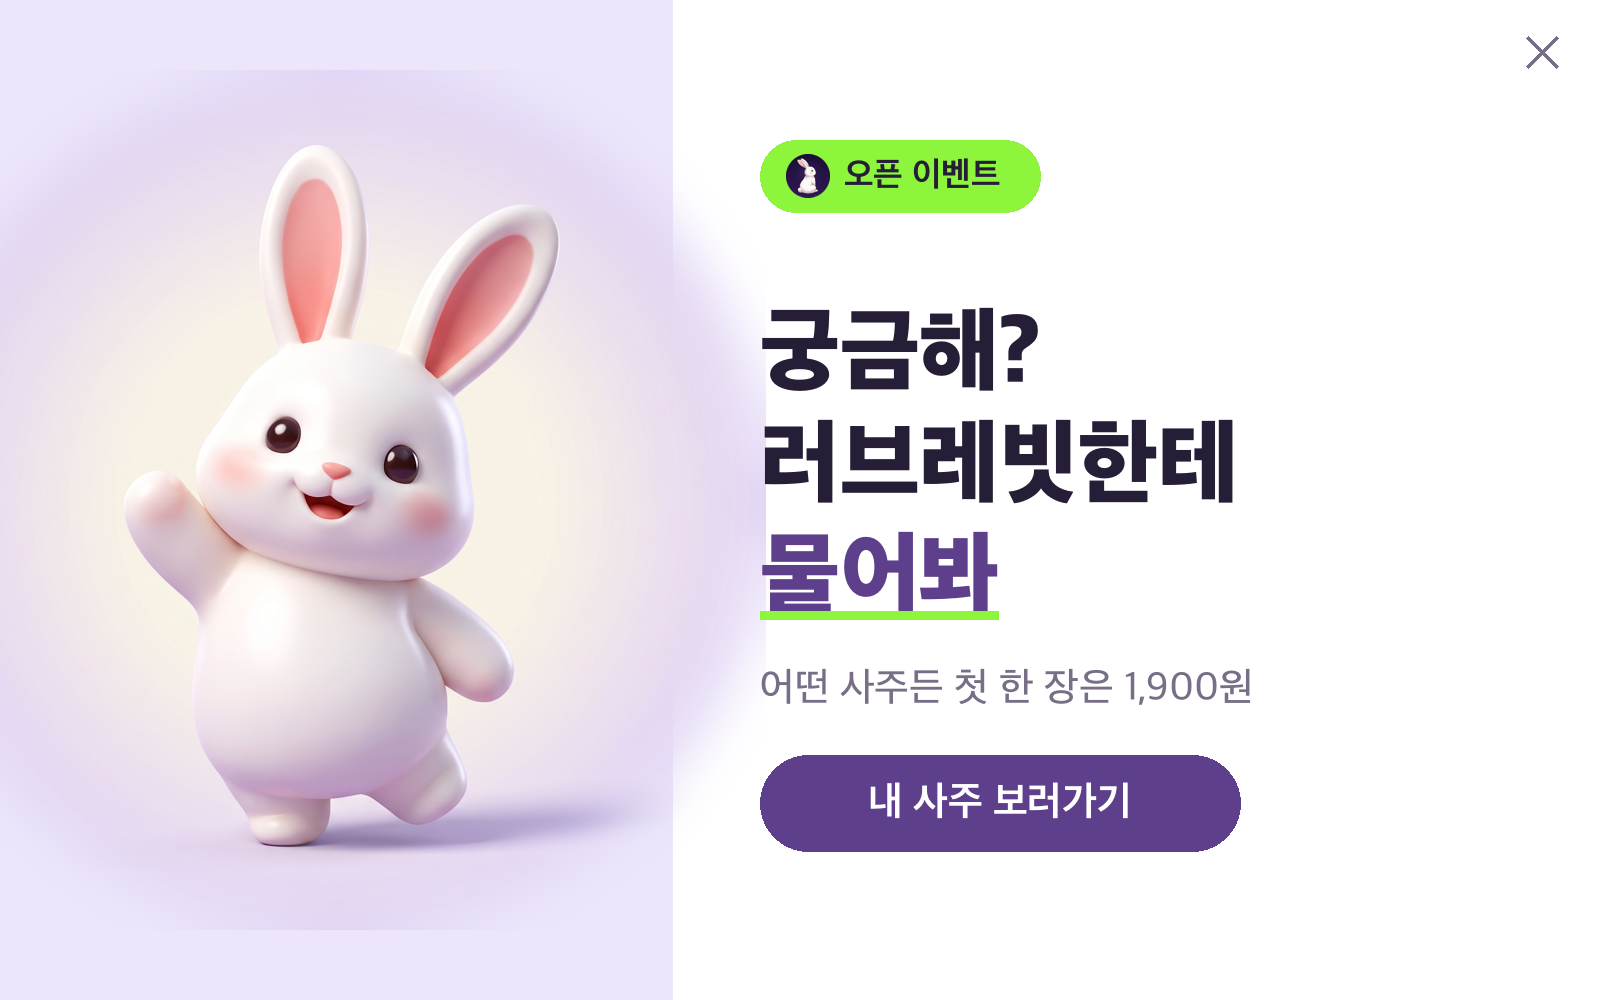
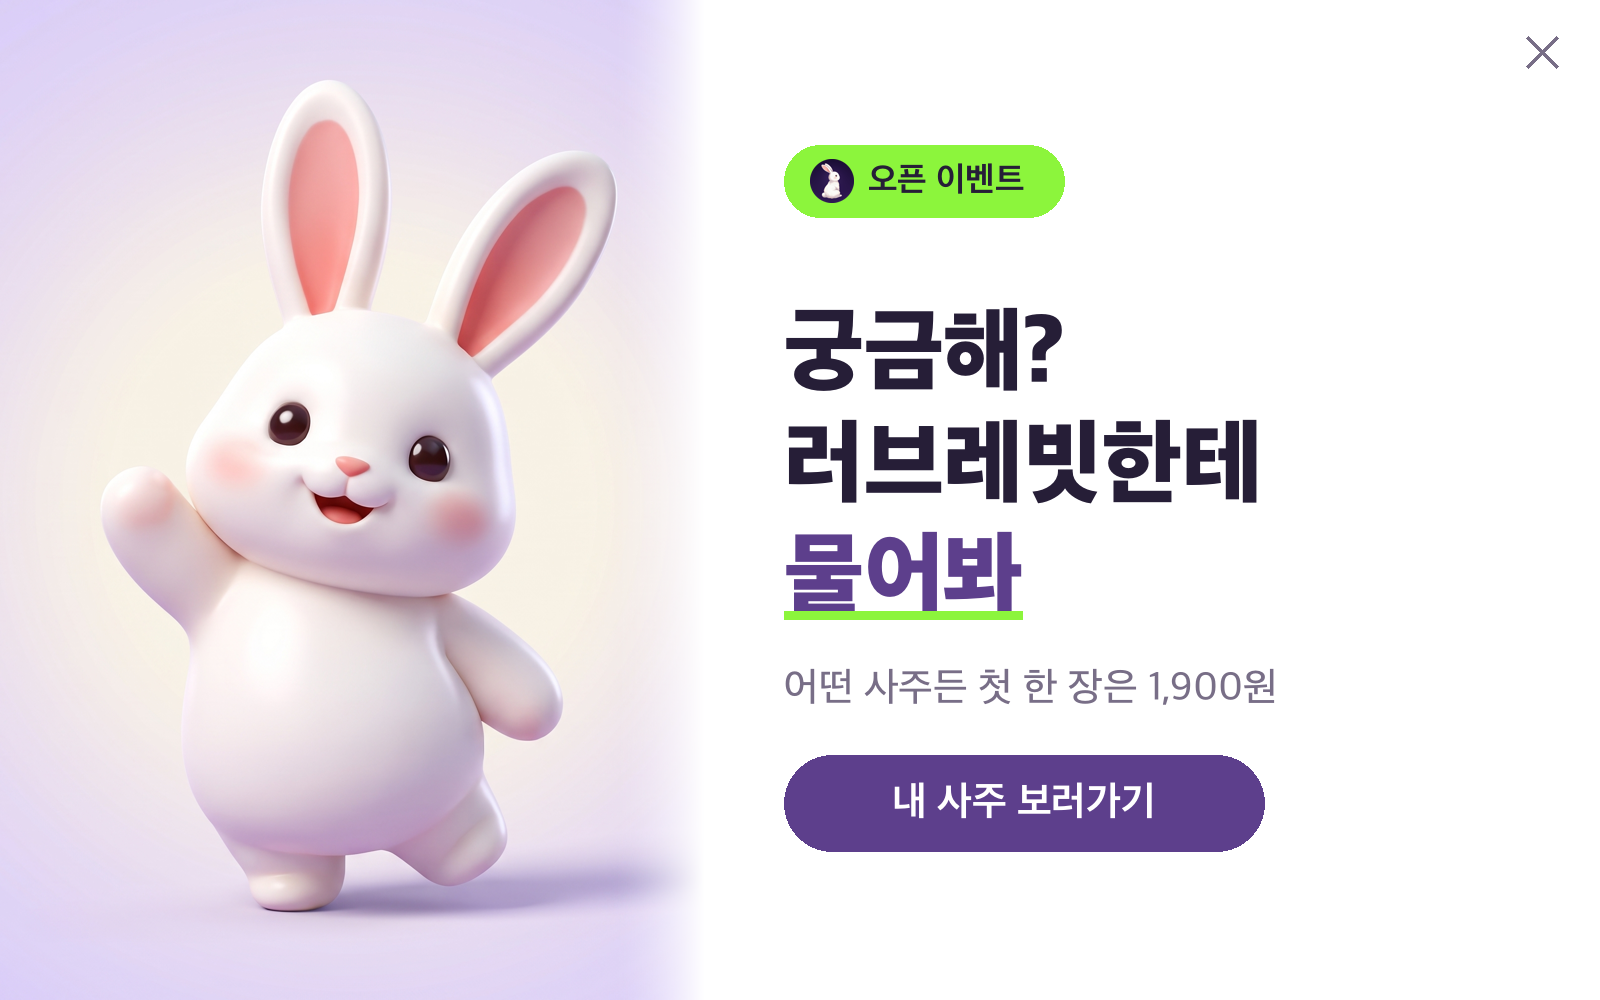
팝업 원형 테두리 제거
원형 마스크로 토끼를 오려 붙여서 배경에 동그란 경계가 보였다.
마스크를 없애고 생성 이미지를 그대로 쓰되,
- 데스크톱: 패널 폭에 맞춰 crop, 우측 가장자리를 흰색으로 페이드
- 모바일: 이미지 하단을 패널 경계에 정확히 맞추고 하단 페이드
- 남는 여백은 생성 이미지의 배경색(215,202,245)으로 채워 이음매 제거

Claude-Session: https://claude.ai/code/session_01BbSSjBDqq5wDqSAhynLt4x

diff --git a/scripts/make-popup.py b/scripts/make-popup.py
@@ -1,67 +1,62 @@
-# 웹앱 진입 팝업. 내용은 기존 오픈 이벤트 그대로, 토끼가 인사하는 형태로.
+# 웹앱 진입 팝업 (데스크톱). 내용은 기존 오픈 이벤트 그대로, 토끼가 인사하는 형태.
+# 토끼 배경색을 패널 색으로 그대로 써서 이음매가 안 보이게 한다.
 import sys
-from PIL import Image, ImageDraw, ImageFont, ImageFilter
+from PIL import Image, ImageDraw, ImageFont
 
 F="/System/Library/Fonts/AppleSDGothicNeo.ttc"
-HEAVY,BOLD,MED,REG=16,6,2,0
+HEAVY,BOLD,MED=16,6,2
 def f(sz,i=BOLD): return ImageFont.truetype(F,sz,index=i)
 
 W,H=1600,1000
-PURPLE=(93,63,140); LILAC=(237,230,250); INK=(38,30,55)
-GREEN=(140,245,60); YELLOW=(255,222,51); GRAY=(120,110,135)
+PURPLE=(93,63,140); INK=(38,30,55); GREEN=(140,245,60); GRAY=(120,110,135)
 OUT=sys.argv[1] if len(sys.argv)>1 else "popup.png"
+
+src=Image.open("wave.png").convert("RGB")
+BG=src.getpixel((5,5))                      # 생성 이미지의 배경색 = 패널 색
 
 im=Image.new("RGB",(W,H),(255,255,255))
 d=ImageDraw.Draw(im,"RGBA")
 
-# 좌측 라일락 패널 (토끼 자리)
-PW=int(W*0.42)
-d.rectangle((0,0,PW,H),fill=LILAC)
+# ── 좌측 패널: 토끼 이미지를 패널에 꽉 채워 crop (원형 마스크 없음)
+PW=int(W*0.44)
+sw,sh=src.size
+scale=max(PW/sw, H/sh)*1.02
+r=src.resize((int(sw*scale),int(sh*scale)))
+# 토끼가 패널 중앙에 오도록 crop
+left=(r.width-PW)//2
+top=int((r.height-H)*0.46)
+im.paste(r.crop((left,top,left+PW,top+H)),(0,0))
 
-# 토끼
-r=Image.open("wave.png").convert("RGB")
-# 배경이 라일락이라 그대로 얹되, 원형 마스크로 부드럽게
-size=int(H*0.86)
-r=r.resize((size,size))
-mask=Image.new("L",(size,size),0)
-ImageDraw.Draw(mask).ellipse((0,0,size,size),fill=255)
-mask=mask.filter(ImageFilter.GaussianBlur(size*0.03))
-im.paste(r,(int(PW/2-size/2),int(H/2-size/2)),mask)
+# 패널 우측 가장자리를 흰 배경으로 부드럽게 (딱딱한 세로선 제거)
+for i in range(90):
+    a=int(255*(i/90)**1.5)
+    d.line([(PW-90+i,0),(PW-90+i,H)],fill=(255,255,255,a))
 
-# 우측 카피
-x=PW+int(W*0.055)
+x=PW+int(W*0.05)
 # 라벨
-tag="오픈 이벤트"
-tf=f(34,BOLD)
-tw=d.textlength(tag,font=tf)
-d.rounded_rectangle((x,int(H*0.14),x+tw+124,int(H*0.14)+72),radius=36,fill=GREEN)
+tag="오픈 이벤트"; tf=f(34,BOLD); tw=d.textlength(tag,font=tf)
+by=int(H*0.145)
+d.rounded_rectangle((x,by,x+tw+124,by+72),radius=36,fill=GREEN)
 ico=Image.open("logo.png").convert("RGBA").resize((44,44))
-im.paste(ico,(x+26,int(H*0.14)+14),ico)
-d.text((x+26+44+14,int(H*0.14)+36),tag,font=tf,fill=INK,anchor="lm")
+im.paste(ico,(x+26,by+14),ico)
+d.text((x+26+58,by+36),tag,font=tf,fill=INK,anchor="lm")
 
 # 헤드라인
-d.text((x,int(H*0.30)),"궁금해?",font=f(92,HEAVY),fill=INK)
-d.text((x,int(H*0.30)+112),"러브레빗한테",font=f(92,HEAVY),fill=INK)
-d.text((x,int(H*0.30)+224),"물어봐",font=f(92,HEAVY),fill=PURPLE)
-# 밑줄
-ul=f(92,HEAVY)
-uw=d.textlength("물어봐",font=ul)
-asc,_=ul.getmetrics()
-d.line([(x,int(H*0.30)+224+asc+8),(x+uw,int(H*0.30)+224+asc+8)],fill=GREEN,width=9)
+y=int(H*0.30)
+d.text((x,y),"궁금해?",font=f(92,HEAVY),fill=INK)
+d.text((x,y+112),"러브레빗한테",font=f(92,HEAVY),fill=INK)
+d.text((x,y+224),"물어봐",font=f(92,HEAVY),fill=PURPLE)
+ul=f(92,HEAVY); uw=d.textlength("물어봐",font=ul); asc,_=ul.getmetrics()
+d.line([(x,y+224+asc+8),(x+uw,y+224+asc+8)],fill=GREEN,width=9)
 
-# 본문
 d.text((x,int(H*0.665)),"어떤 사주든 첫 한 장은 1,900원",font=f(40,MED),fill=GRAY)
 
-# 버튼
-bw,bh=int(W*0.30),96
-by=int(H*0.755)
-d.rounded_rectangle((x,by,x+bw,by+bh),radius=bh//2,fill=PURPLE)
-d.text((x+bw/2,by+bh/2),"내 사주 보러가기",font=f(40,BOLD),fill=(255,255,255),anchor="mm")
+bw,bh=int(W*0.30),96; by2=int(H*0.755)
+d.rounded_rectangle((x,by2,x+bw,by2+bh),radius=bh//2,fill=PURPLE)
+d.text((x+bw/2,by2+bh/2),"내 사주 보러가기",font=f(40,BOLD),fill=(255,255,255),anchor="mm")
 
-# 닫기 (X 를 선으로 — 폰트에 글리프 없음)
 cx,cy,rr=W-58,52,15
 d.line([(cx-rr,cy-rr),(cx+rr,cy+rr)],fill=GRAY,width=5)
 d.line([(cx-rr,cy+rr),(cx+rr,cy-rr)],fill=GRAY,width=5)
 
-im.save(OUT,quality=95)
-print("ok",OUT,im.size)
+im.save(OUT,quality=95); print("ok",OUT,im.size,"bg",BG)

diff --git a/scripts/make-popup-mobile.py b/scripts/make-popup-mobile.py
@@ -1,39 +1,49 @@
-# 모바일 세로 팝업 (토끼 위 / 카피 아래)
-from PIL import Image, ImageDraw, ImageFont, ImageFilter
+# 모바일 세로 팝업 (토끼 위 / 카피 아래). 원형 마스크 없이 crop + 하단 페이드.
+from PIL import Image, ImageDraw, ImageFont
 F="/System/Library/Fonts/AppleSDGothicNeo.ttc"
 HEAVY,BOLD,MED=16,6,2
 def f(sz,i=BOLD): return ImageFont.truetype(F,sz,index=i)
 W,H=1000,1400
-PURPLE=(93,63,140); LILAC=(237,230,250); INK=(38,30,55); GREEN=(140,245,60); GRAY=(120,110,135)
+PURPLE=(93,63,140); INK=(38,30,55); GREEN=(140,245,60); GRAY=(120,110,135)
+
+src=Image.open("wave.png").convert("RGB")
 im=Image.new("RGB",(W,H),(255,255,255)); d=ImageDraw.Draw(im,"RGBA")
 
-# 상단 라일락
-PH=int(H*0.46); d.rectangle((0,0,W,PH),fill=LILAC)
-r=Image.open("wave.png").convert("RGB"); s=int(PH*1.02); r=r.resize((s,s))
-m=Image.new("L",(s,s),0); ImageDraw.Draw(m).ellipse((0,0,s,s),fill=255)
-m=m.filter(ImageFilter.GaussianBlur(s*0.035))
-im.paste(r,(int(W/2-s/2),int(PH/2-s/2)),m)
+# 상단: 토끼를 폭에 맞춰 채우고 crop
+PH=int(H*0.52)
+BG=src.getpixel((5,5))
+d.rectangle((0,0,W,PH),fill=BG)          # 여백은 생성 이미지 배경색으로
+sw,sh=src.size
+# 폭을 꽉 채우되(좌우 띠 방지) 세로는 토끼 전체가 보이게 위쪽을 잘라낸다
+r=src.resize((int(W*0.94),int(W*0.94)))
+TOP=PH-r.height              # 이미지 하단 = PH 에 정확히 맞춤 (띠·경계 방지)
+im.paste(r,(int((W-r.width)/2),TOP))
+d.rectangle((0,0,W,max(0,TOP)),fill=BG)   # 위쪽 남는 곳은 같은 배경색
+
+# 하단 경계를 흰색으로 페이드 (가로선 제거)
+for i in range(150):
+    a=int(255*(i/150)**1.3)
+    d.line([(0,PH-150+i),(W,PH-150+i)],fill=(255,255,255,a))
+d.rectangle((0,PH,W,H),fill=(255,255,255))
 
 cx=W//2
-# 라벨
 tag="오픈 이벤트"; tf=f(34,BOLD); tw=d.textlength(tag,font=tf)
-bw2=tw+124; bx=cx-bw2/2; by=int(H*0.505)
+bw2=tw+124; bx=cx-bw2/2; by=int(H*0.535)
 d.rounded_rectangle((bx,by,bx+bw2,by+72),radius=36,fill=GREEN)
 ico=Image.open("logo.png").convert("RGBA").resize((44,44))
 im.paste(ico,(int(bx+26),by+14),ico)
 d.text((bx+26+58,by+36),tag,font=tf,fill=INK,anchor="lm")
 
-# 헤드라인 (중앙)
-y=int(H*0.60)
+y=int(H*0.625)
 d.text((cx,y),"궁금해?",font=f(86,HEAVY),fill=INK,anchor="ma")
 d.text((cx,y+106),"러브레빗한테",font=f(86,HEAVY),fill=INK,anchor="ma")
 d.text((cx,y+212),"물어봐",font=f(86,HEAVY),fill=PURPLE,anchor="ma")
 ul=f(86,HEAVY); uw=d.textlength("물어봐",font=ul); asc,_=ul.getmetrics()
 d.line([(cx-uw/2,y+212+asc+8),(cx+uw/2,y+212+asc+8)],fill=GREEN,width=9)
 
-d.text((cx,int(H*0.845)),"어떤 사주든 첫 한 장은 1,900원",font=f(38,MED),fill=GRAY,anchor="ma")
+d.text((cx,int(H*0.855)),"어떤 사주든 첫 한 장은 1,900원",font=f(38,MED),fill=GRAY,anchor="ma")
 
-bw3,bh=int(W*0.72),100; bx2=cx-bw3/2; by2=int(H*0.895)
+bw3,bh=int(W*0.72),100; bx2=cx-bw3/2; by2=int(H*0.900)
 d.rounded_rectangle((bx2,by2,bx2+bw3,by2+bh),radius=bh//2,fill=PURPLE)
 d.text((cx,by2+bh/2),"내 사주 보러가기",font=f(40,BOLD),fill=(255,255,255),anchor="mm")
 
